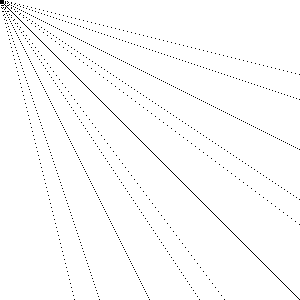
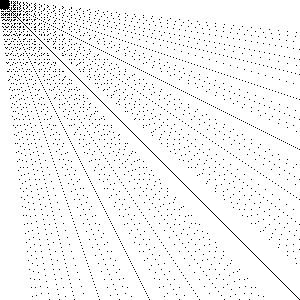
Line depiction added

Changed region(s): [[0.0, 0.0, 0.12, 0.12]]

diff --git a/line_plot_comparisson.py b/line_plot_comparisson.py
@@ -1,18 +1,20 @@
 from PIL import Image
 
 def intensities(x,y):
-      for a in values:
-        for b in values:
-          if a*x == b*y:
-            return (a, a, a)
-      white = 255 
-      return (white, white, white)
-             
+   for a in values:
+     for b in values:
+       if a*x == b*y:
+         return (0,0,0)
+   white = 255
+   return (white, white, white)
+         
+
 
 if __name__=='__main__':
   dim = 300
-  # let say the range in between 1-5
-  values = list(range(1,5)) 
+  # let say the range betwen 1-5, otherwise it would take too much time
+  # since the complextiy otherwise would be high
+  values = list(range(1,10))
   intensity_matrix = []
   # Equation to be plotted here is ax = by
   for x in range(1, dim+1):

diff --git a/README.md b/README.md
@@ -14,8 +14,13 @@ Euclidean Algorithm for finding GCD(A,B) could be written as A = B.Q + R and if 
 And since A = B.Q + R represent line equation y = m.x + c, which in turn is y = mx if c = 0.
 
 Thus, the lines in the above depiction corresponds to ax = by for intergral(a,b) and hence explains the line pattern.
+Same could be seen with the plot below.
 
-Depiction of ax = by with coressponding intensities to be added soon....
+![alt text](https://github.com/GeVic/GCD-Pattern-21B/blob/master/line.png)
+
+Now, the above line pattern is very similar to the GCD(a,b) pattern. This implies that this is the one of the possible way 
+of solving GCD(a, b). Although this approch being slow as compares to Euclidean approach, it doesn't give us much of 
+a solution.
 
 ## Why I did this?
 The problem seems intresting. But still I think my explanation lacks something. It would be great if you wanna discuss 
